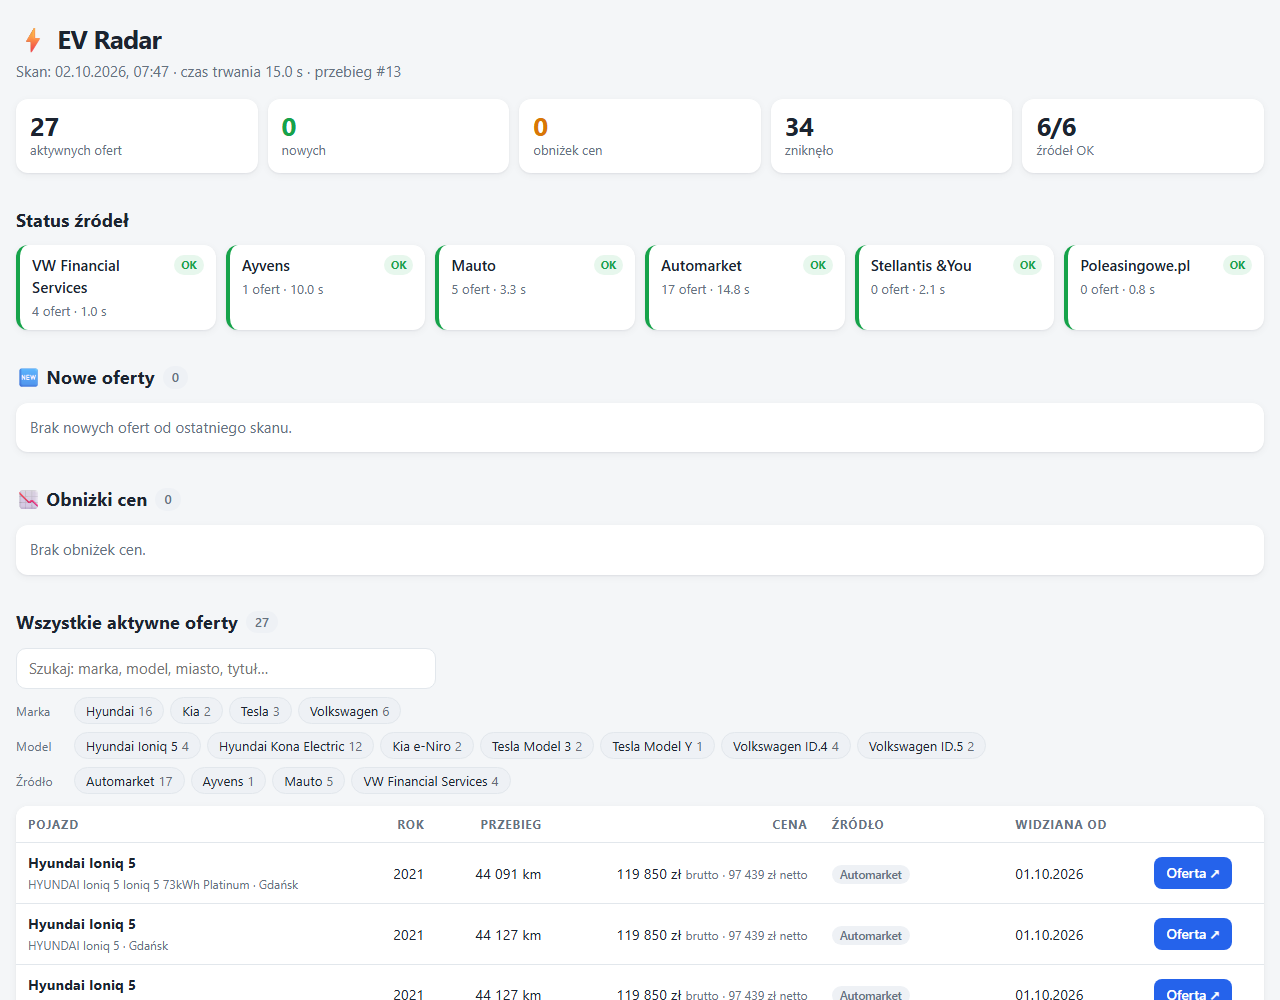
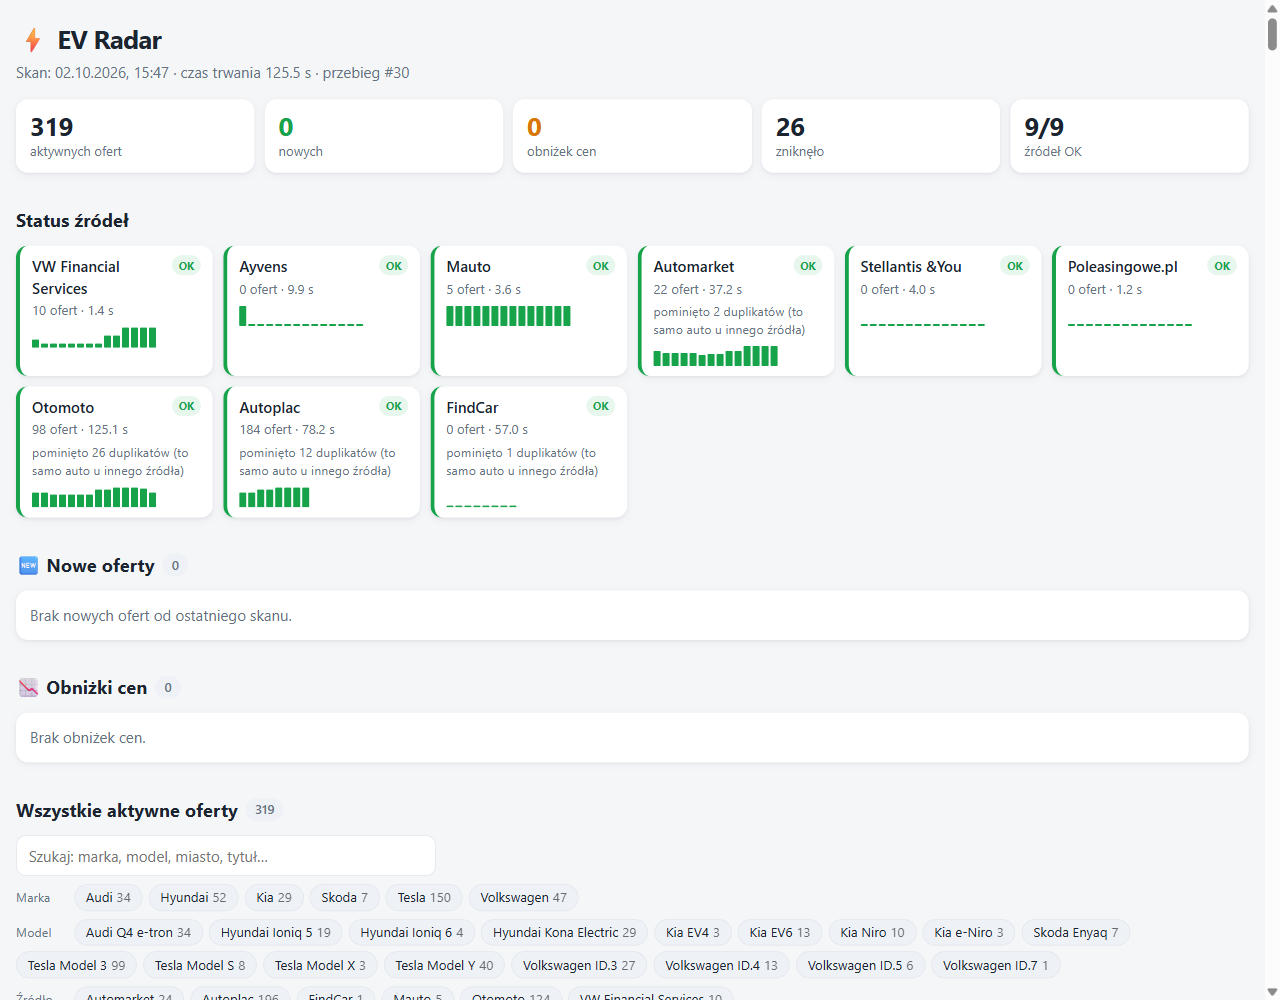
README i zrzut raportu odswiezone; health: brak ostrzezen przy malej liczbie ofert

diff --git a/src/evradar/health.py b/src/evradar/health.py
@@ -5,6 +5,7 @@ from __future__ import annotations
 from statistics import median
 
 DROP_RATIO = 0.5  # spadek poniżej połowy zwykłej liczby ofert uznajemy za podejrzany
+MIN_REF = 3  # przy mniejszej typowej liczbie ofert spadki to szum
 REF_WINDOW = 7
 
 Run = tuple[str, str, int]  # (data ISO, status, liczba ofert)
@@ -20,5 +21,5 @@ def source_verdict(runs: list[Run]) -> tuple[str, int | None]:
     ref = round(median(ok_counts)) if ok_counts else None
     status, count = last[1], last[2]
     if status == "OK":
-        return ("drop" if ref and count < ref * DROP_RATIO else "ok"), ref
+        return ("drop" if ref and ref >= MIN_REF and count < ref * DROP_RATIO else "ok"), ref
     return status.lower(), ref

diff --git a/tests/test_health.py b/tests/test_health.py
@@ -51,6 +51,7 @@ def test_verdict_detects_drop_and_failures() -> None:
     assert source_verdict([*history, run("ERROR", 0)])[0] == "error"
     assert source_verdict([*history, run("STALE", 0)])[0] == "stale"
     assert source_verdict([run("OK", 5)]) == ("ok", None)
+    assert source_verdict([run("OK", 1), run("OK", 0)]) == ("ok", 1)
 
 
 def test_source_history_keeps_last_runs() -> None:

diff --git a/README.md b/README.md
@@ -49,7 +49,7 @@ EV Radar codziennie odpytuje **9 polskich serwisów** z autami leasingowymi/pole
 | **Automarket / PKO Leasing** (`automarket`) | `__NUXT_DATA__` | netto (oferty dla firm) lub brutto |
 | **Stellantis &You** (`stellantis`) | publiczny indeks Algolia używany przez stronę | brutto |
 | **Poleasingowe.pl** (`poleasingowe`) | HTML (aukcje) | netto |
-| **Otomoto** (`otomoto`) | SSR: `__NEXT_DATA__` → `advertSearch` (per model, paginacja) | brutto lub netto (flaga `isGross`) |
+| **Otomoto** (`otomoto`) | SSR: `__NEXT_DATA__` → `advertSearch` (per model, paginacja; bez ofert „Uszkodzony: Tak”) | brutto lub netto (flaga `isGross`) |
 | **Autoplac** (`autoplac`) | SSR Angular: `ng-state` → lista ofert (per model, `?p=N`) | brutto + netto (gdy FV) |
 | **FindCar** (`findcar`) | SSR Angular: `ng-state` → TanStack Query (per marka, `/znajdz-samochod/N`) | brutto |
 
@@ -207,12 +207,13 @@ uv run mypy           # typy (strict)
 
 ```text
 src/evradar/
-├── cli.py            # polecenia: run | report | sources | demo-report
+├── cli.py            # polecenia: run | report | sources | health | backup | demo-report
 ├── runner.py         # orkiestracja skanu, wykrywanie zmian struktury stron
 ├── scrapers/         # po jednym adapterze na źródło (wykrywane automatycznie)
 ├── matching.py       # normalizacja nazw, dopasowanie modeli, is_electric()
 ├── parsing.py        # ceny, VAT 23% (netto ⇄ brutto)
-├── storage.py        # SQLite (oferty, historia cen, przebiegi skanów)
+├── storage.py        # SQLite (oferty, historia cen, mediany modeli, przebiegi skanów, kopia bazy)
+├── health.py         # ocena zdrowia źródła z historii liczby ofert
 ├── diff.py           # NEW / PRICE_DROP / PRICE_UP / GONE / BACK
 ├── report.py         # + templates/report.html.j2 — samodzielny raport HTML
 ├── robots.py         # respektowanie robots.txt
